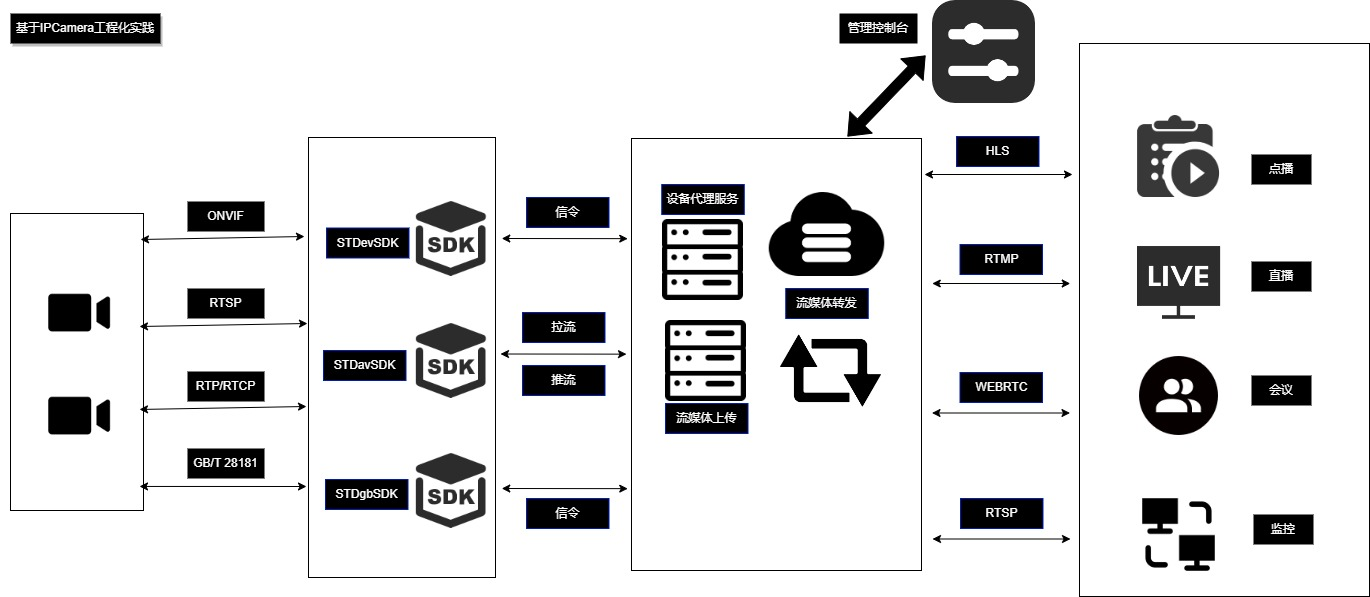
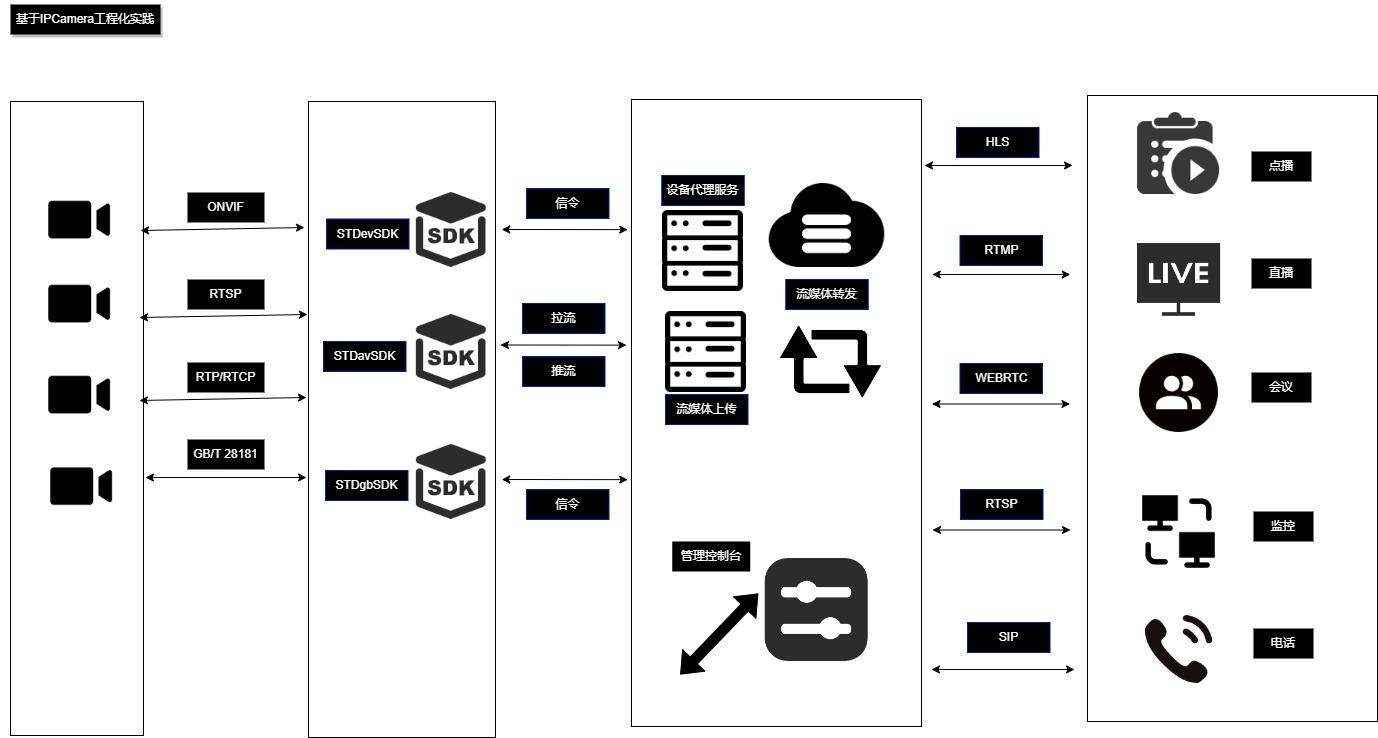
upload guide picture

diff --git a/src/guide/README.md b/src/guide/README.md
@@ -5,11 +5,28 @@ icon: terminal
 
 ## 一个基于IPCamera的商用级安防行业音视频解决方案
 
-## 项目特点
+### 大规模视频监控系统应用实例
 
-## 项目定位
+![](https://raw.githubusercontent.com/JohntonYong/JohntonYong.github.io/efae6c6fb6332aae0284888c17e20049e833ab3e/src/.vuepress/public/images/guide/1.jpg)
 
-## 功能清单
+### 项目特点
 
+- 国内外主流品牌**厂商**SDK接入平台
 
-**编译前务必仔细参考 wiki:[快速开始](../tutorial/README.md)操作!!!**
+- 国内外主流品牌**自研**SDK接入平台
+  - STDevSDK：支持国际ONVIF协议
+  - STDavSDK：支持标准音视频编码，解码，转码等处理
+  - STDgbSDK：支持国标GB/T 28181协议
+
+### 项目定位
+
+- 提供校招企业级简历项目经验服务
+- 提供社招行业级简历项目经验服务
+- 提供企业或个人SDK定制开发服务
+- 提供企业或个人行业技术咨询服务
+
+### 未来展望
+
+持续聚焦于音视频领域的监控、点播、直播、会议，网络电话等产品开发实践。
+
+![](https://raw.githubusercontent.com/JohntonYong/JohntonYong.github.io/efae6c6fb6332aae0284888c17e20049e833ab3e/src/.vuepress/public/images/guide/2.jpg)